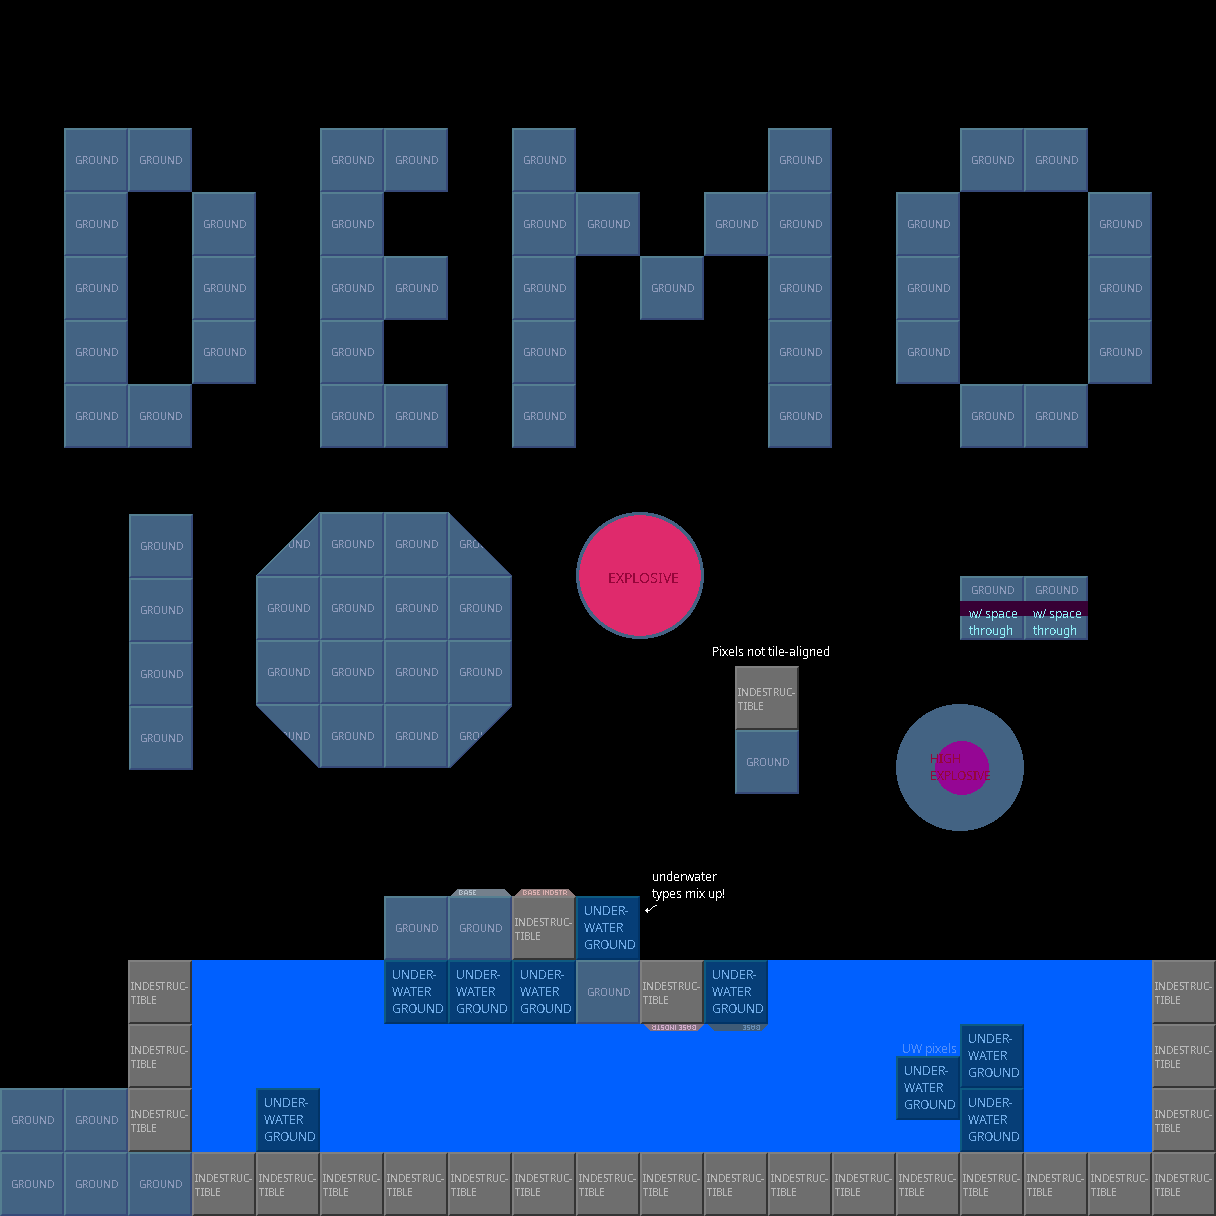
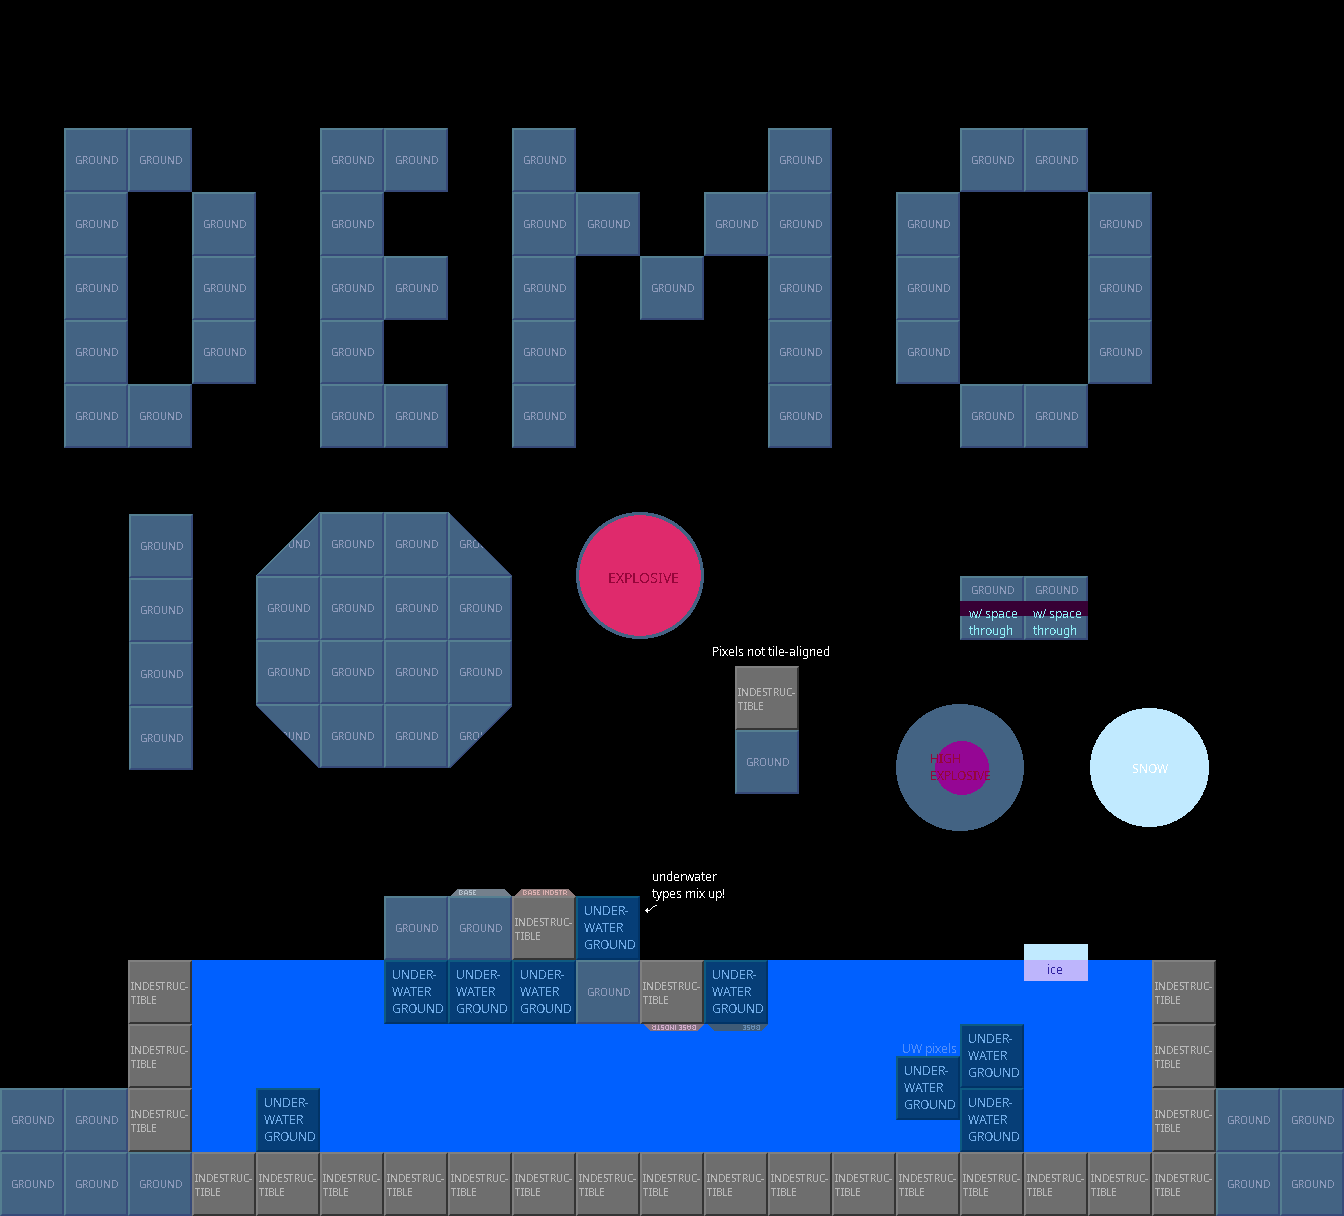
Implement ice terrain type

diff --git a/src/game/objects/physicalobj.rs b/src/game/objects/physicalobj.rs
@@ -92,7 +92,23 @@ impl PhysicalObject {
                 TerrainCollisionMode::Simple => {
                     let t = level.terrain_at(new_pos);
                     if terrain::is_solid(t) {
-                        self.vel = Vec2::ZERO;
+                        if terrain::is_ice(t) {
+                            // TODO we could check the terrain slope at new_pos
+                            // and have the ship slide uphill depending on
+                            // its vector, but this simple horizontal sliding
+                            // works pretty well even on its own.
+                            let newvel = Vec2(self.vel.0, 0.0);
+                            let new_pos = self.pos + newvel * timestep;
+                            if !terrain::is_solid(level.terrain_at(new_pos)) {
+                                self.vel = newvel;
+                                self.pos = new_pos;
+                            } else {
+                                self.vel = Vec2::ZERO;
+                            }
+                        } else {
+                            // Regular non-slippery terrain
+                            self.vel = Vec2::ZERO;
+                        }
                     } else {
                         self.pos = new_pos;
                     }

diff --git a/src/game/level/terrain.rs b/src/game/level/terrain.rs
@@ -60,6 +60,12 @@ pub fn is_high_explosive(t: Terrain) -> bool {
     t & TER_MASK_SOLID == TER_TYPE_HIGH_EXPLOSIVE
 }
 
+/// Is this ice/snow?
+/// Ships will slide on icy surfaces
+pub fn is_ice(t: Terrain) -> bool {
+    t & TER_MASK_SOLID == TER_TYPE_ICE
+}
+
 /// Is this a base?
 /// Note: bases orient the ship to point upwards. Underwater bases point the ship downward
 pub fn is_base(t: Terrain) -> bool {
